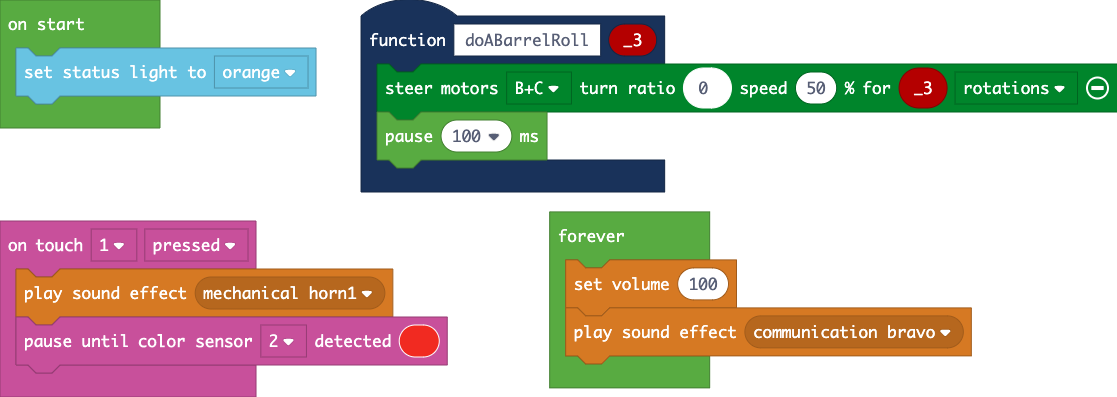
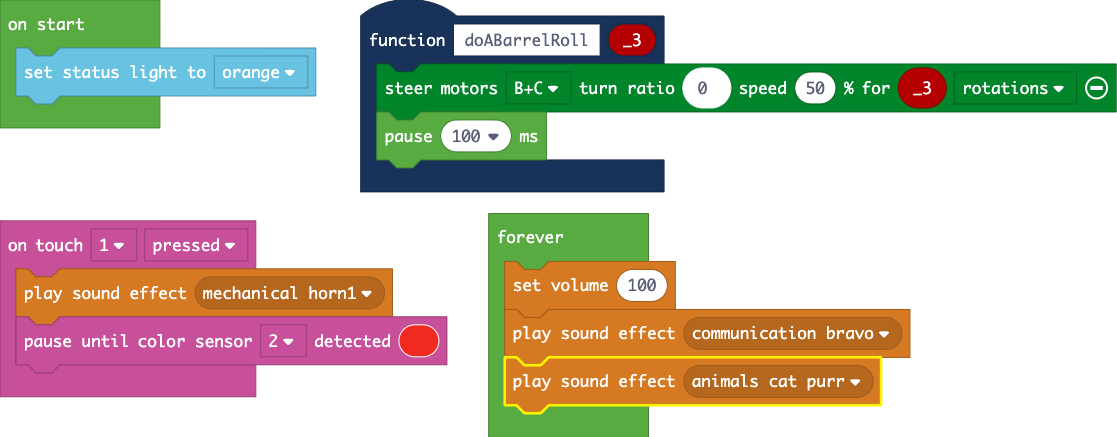
Update main.blocks, main.ts

diff --git a/main.ts b/main.ts
@@ -10,4 +10,5 @@ brick.setStatusLight(StatusLight.Orange)
 forever(function () {
     music.setVolume(100)
     music.playSoundEffect(sounds.communicationBravo)
+    music.playSoundEffect(sounds.animalsCatPurr)
 })
